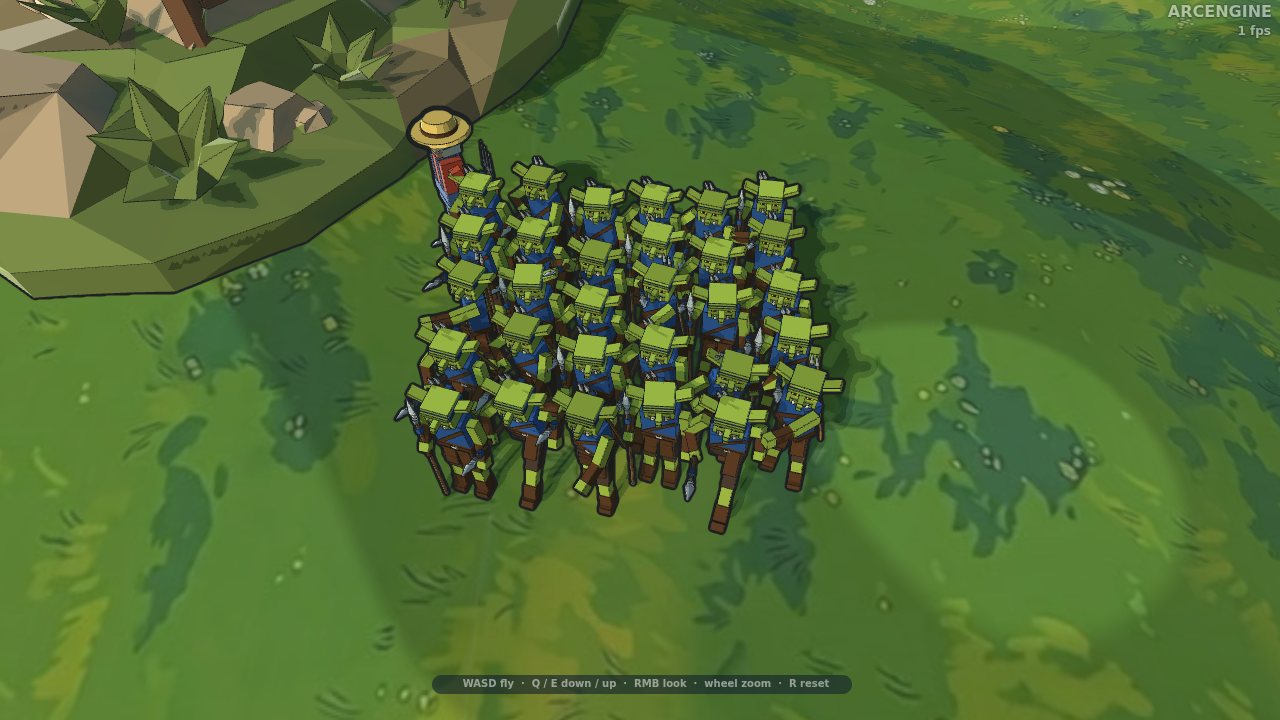
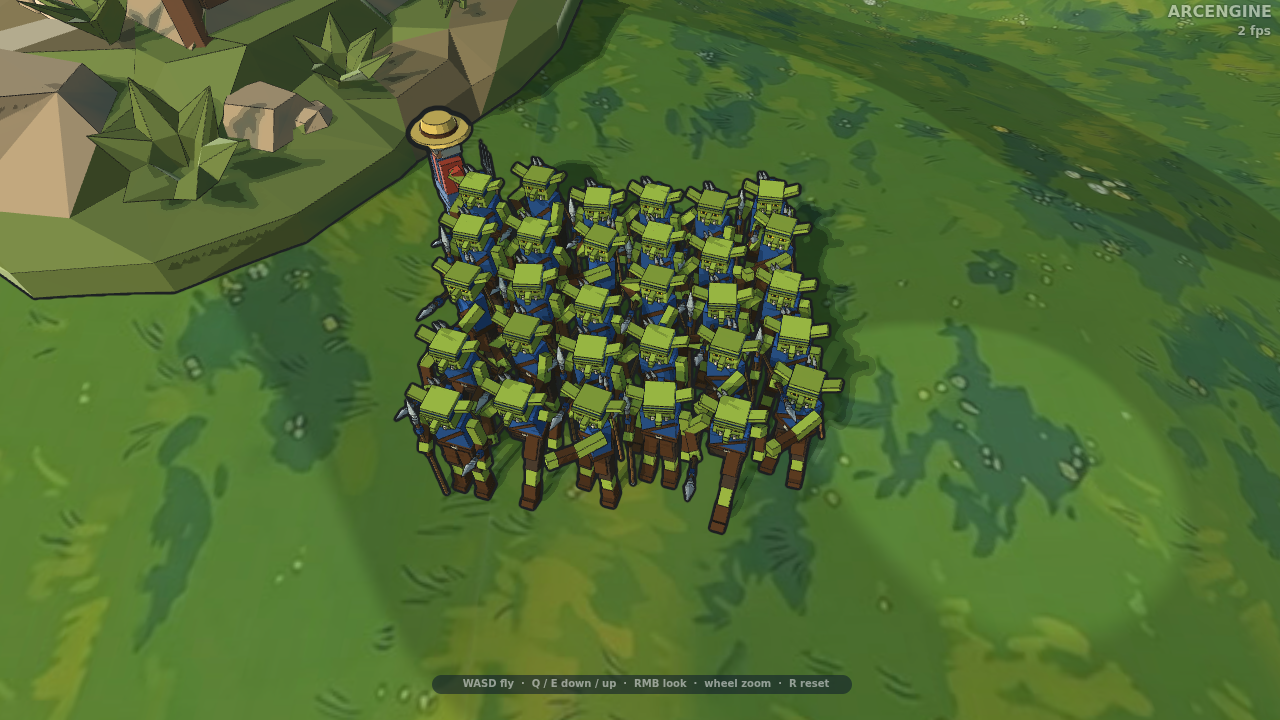
Goblin: throw animation lasts 1.5 s, same as the archer's shot

diff --git a/ArcEngine/3D-models/README.md b/ArcEngine/3D-models/README.md
@@ -49,7 +49,7 @@ GLB со скелетом и клипами анимации, **один меш 
 |---|---|---|---|---|---|---|
 | `idle` | меч остриём вниз, щит у бедра | лук опущен у левого бока | копьё стоит упором в землю | топор стоит обухом в землю у правого бока | дротик стоит в руке, гоблин озирается | дубина лежит головой на земле, тяжёлое дыхание |
 | `run` | щит перед собой, меч поднят | лук качается в левой руке | копьё наискось вперёд, двумя руками | топор наискось поперёк груди, двумя руками | дротик наискось вперёд, быстрая перебежка | дубина двумя руками поперёк груди, тяжёлая поступь |
-| `attack` | замах и косой удар, 0,9 с | стрела из колчана, натяжение, выстрел, 1,5 с | отвод и укол с выпадом, 1,0 с | замах над плечом и рубящий удар сверху с выпадом, 1,1 с | замах и бросок: дротик исчезает в момент выпуска из руки, новый появляется из связки за спиной, 0,9 с | дубина двумя руками над головой и удар сверху с выпадом, 1,4 с |
+| `attack` | замах и косой удар, 0,9 с | стрела из колчана, натяжение, выстрел, 1,5 с | отвод и укол с выпадом, 1,0 с | замах над плечом и рубящий удар сверху с выпадом, 1,1 с | замах и бросок: дротик исчезает в момент выпуска из руки, новый появляется из связки за спиной, 1,5 с | дубина двумя руками над головой и удар сверху с выпадом, 1,4 с |
 | `death` | падает на спину | падает на спину, лук вдоль тела | падает на спину, копьё вдоль тела | падает на спину, топор вдоль тела | падает на спину, дротик вдоль тела | падает на спину, дубина вдоль тела |
 
 ## В ArcEngine
